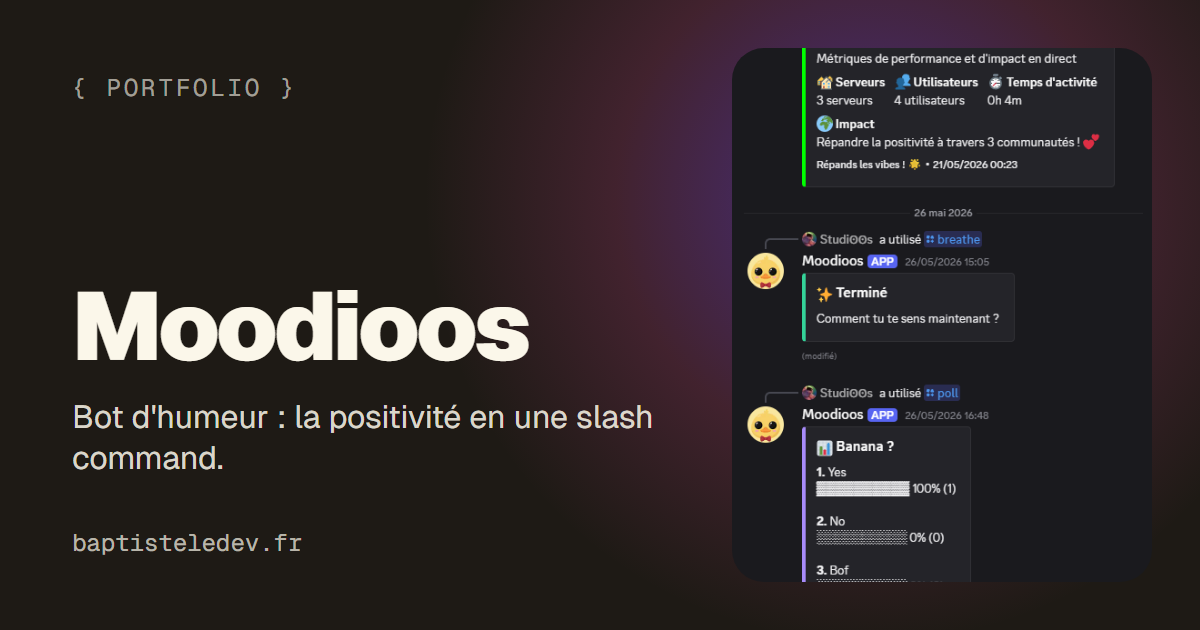
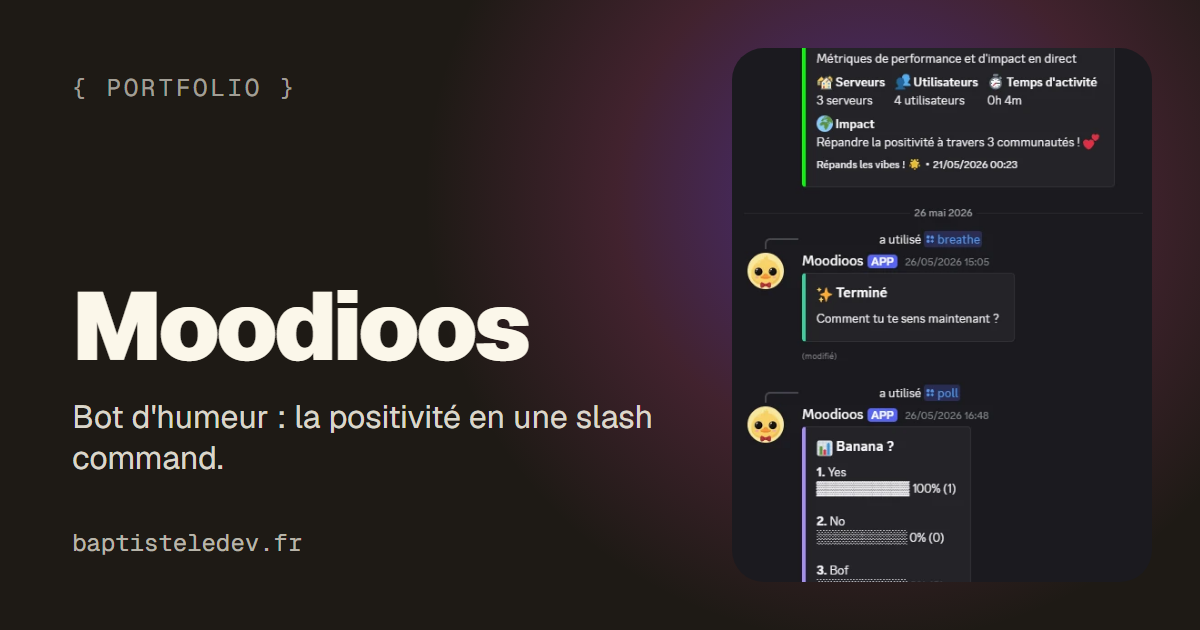
feat(moodioos): webp screenshots, refreshed og card

diff --git a/frontend/src/data/projects.ts b/frontend/src/data/projects.ts
@@ -104,12 +104,12 @@ export const projects: Project[] = [
     stack: ["TypeScript", "Node.js 22", "discord.js v14", "Fastify", "Drizzle ORM"],
     types: ["fullstack"],
     status: "live",
-    thumbnail: { kind: "image", src: "/images/moodioos/mood-01.png" },
+    thumbnail: { kind: "image", src: "/images/moodioos/mood-01.webp" },
     links: { live: "https://bdf-portail.vercel.app/moodioos" },
     screenshots: [
-      "/images/moodioos/mood-01.png",
-      "/images/moodioos/mood-02.png",
-      "/images/moodioos/mood-03.png",
+      "/images/moodioos/mood-01.webp",
+      "/images/moodioos/mood-02.webp",
+      "/images/moodioos/mood-03.webp",
     ],
     problem:
       "Maintenir une ambiance positive dans une communauté Discord demande des interactions régulières : votes d'humeur, câlins, petits gestes.",
